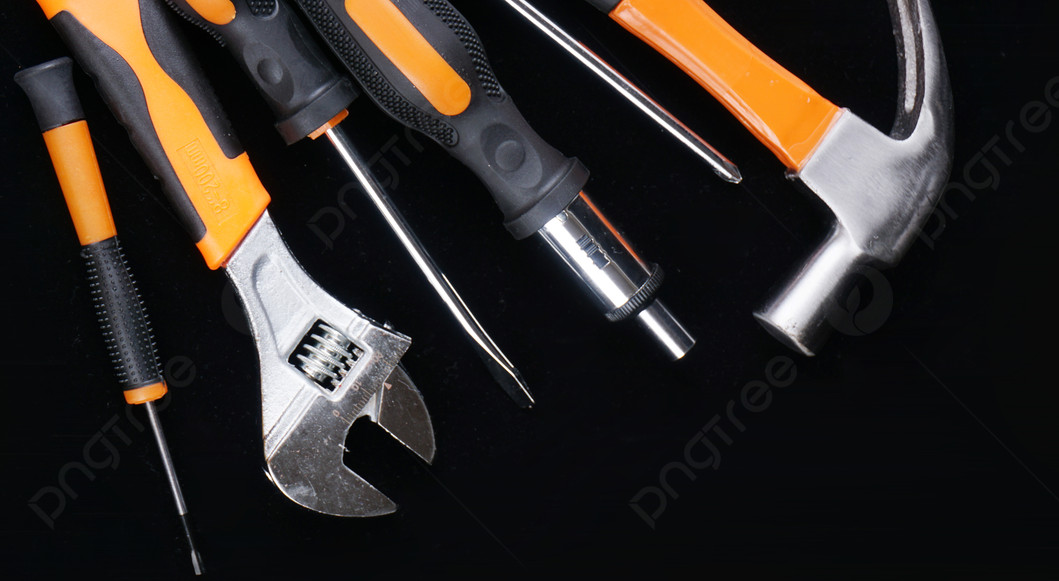
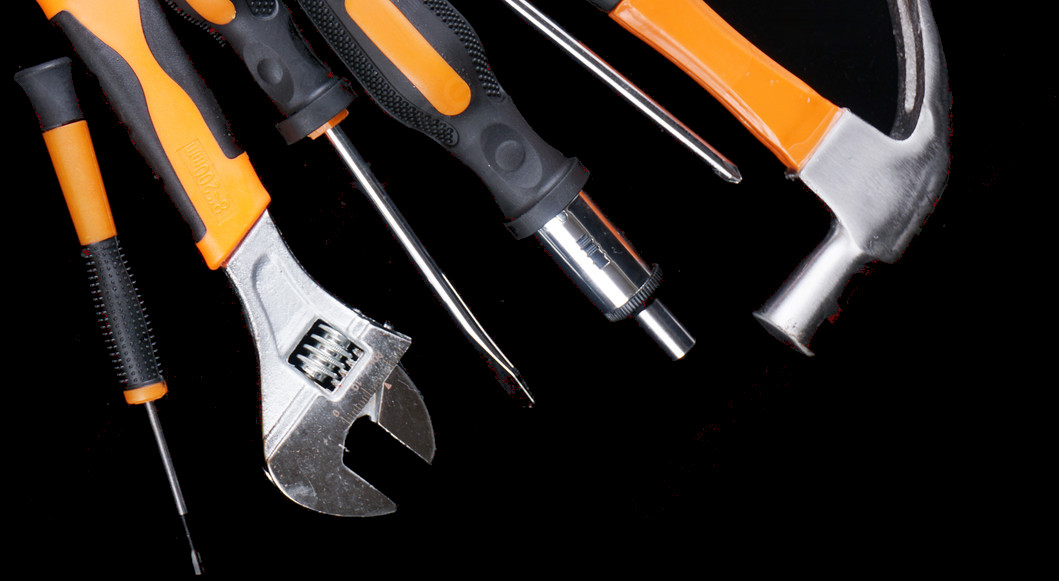
Optimize images

diff --git a/src/Panels/PlayPanel.vue b/src/Panels/PlayPanel.vue
@@ -29,7 +29,7 @@ const personal = ref([
     img: 'motocross.svg',
     title: 'Dirtbike',
     // card: 'spades_jack.svg',
-    card: 'dirtbikes2.png',
+    card: 'dirtbikes2.webp',
     desc: 'I derive most enjoyment from traversing the Rocky Mountains on my dirtbike. Battling mountainous terrain and exploring trails. I revel in the discovery of picturesque locations and find peace in natural beauty.'
   },
   {
@@ -37,7 +37,7 @@ const personal = ref([
     img: 'chicken.svg',
     title: 'Chickens',
     // card: 'hearts_queen.svg',
-    card: 'chicken.png',
+    card: 'chicken.webp',
     desc: 'I have nurtured a brood of eight chickens, beginning their journey when they were merely two weeks old. Over time, these feathered companions have evolved into beloved pets, enhancing my daily life with both their companionship and the reward of entertainment and supply of fresh eggs.'
   },
   {

diff --git a/src/Panels/BooksPanel.vue b/src/Panels/BooksPanel.vue
@@ -1,5 +1,5 @@
 <template>
-  <img src="/assets/hero/dark-gloomy-books-pages-preview.jpg" class="hero" alt="Book" aria-hidden="true" />
+  <img src="/assets/hero/dark-gloomy-books.webp" class="hero" alt="Book" aria-hidden="true" />
   <div class="pad">
     <h1>Books</h1>
     <h2>Technical Editor</h2>
@@ -14,8 +14,8 @@
       </li>
     </ul>
     <hr />
-    <img src="/assets/hero/dark-gloomy-books-pages-preview.jpg" draggable="false" class="hero" alt="Book"
-      aria-hidden="true" style="transform: rotate(180deg)" />
+    <img src="/assets/hero/dark-gloomy-books.webp" draggable="false" class="hero" alt="Book" aria-hidden="true"
+      style="transform: rotate(180deg)" />
   </div>
 </template>
 <script setup>

diff --git a/src/Panels/ConnectPanel.vue b/src/Panels/ConnectPanel.vue
@@ -17,8 +17,8 @@
     <div class="credit">- Peter Drucker</div>
   </q>
   <div class="gap target">
-    <img src="/assets/hero/43405c2e194c3a7799562b492c60b501.jpg" draggable="false" class="hero"
-      alt="Picture of Transmission" aria-label="Picture of a Transmission" />
+    <img src="/assets/hero/transmisson.webp" draggable="false" class="hero" alt="Picture of Transmission"
+      aria-label="Picture of a Transmission" />
     <MorseCode class="morseCode" text="dan at snapjay com" />
   </div>
   <div class="pad">

diff --git a/src/Panels/SkillsPanel.vue b/src/Panels/SkillsPanel.vue
@@ -1,5 +1,5 @@
 <template>
-    <img src="/assets/hero/tools.jpg" draggable="false" alt="Rose" class="hero" aria-hidden="true" />
+    <img src="/assets/hero/tools.webp" draggable="false" alt="Rose" class="hero" aria-hidden="true" />
     <div class="pad">
         <div class="wrapper">
             <h1 class="glitch">Skills</h1>

diff --git a/src/components/CanvasLayout.vue b/src/components/CanvasLayout.vue
@@ -32,7 +32,7 @@ defineProps({
     <Panel :invert="true">
       <PersonalPanel />
     </Panel>
-    <Panel background="felt.jpg" :cover="false">
+    <Panel background="felt.webp" :cover="false">
       <PlayPanel />
     </Panel>
     <Panel :invert="true">
